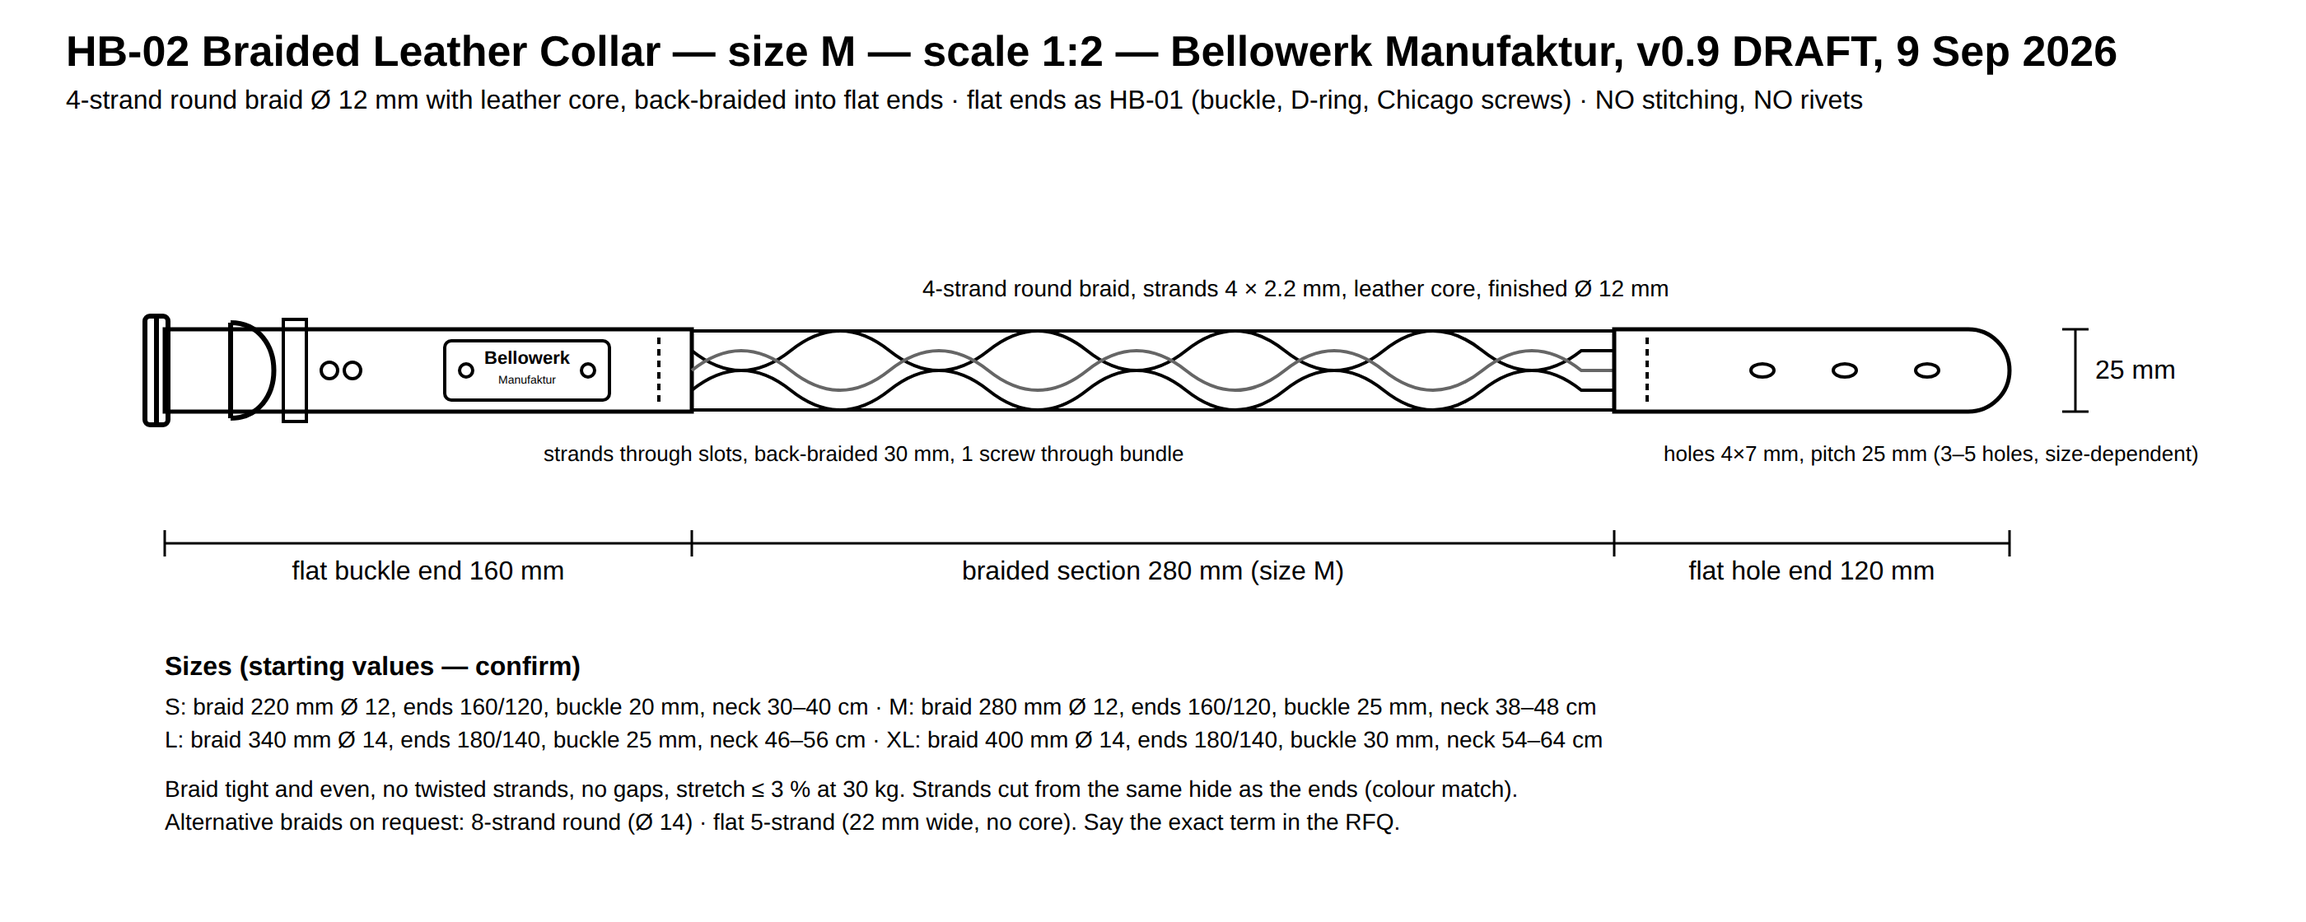
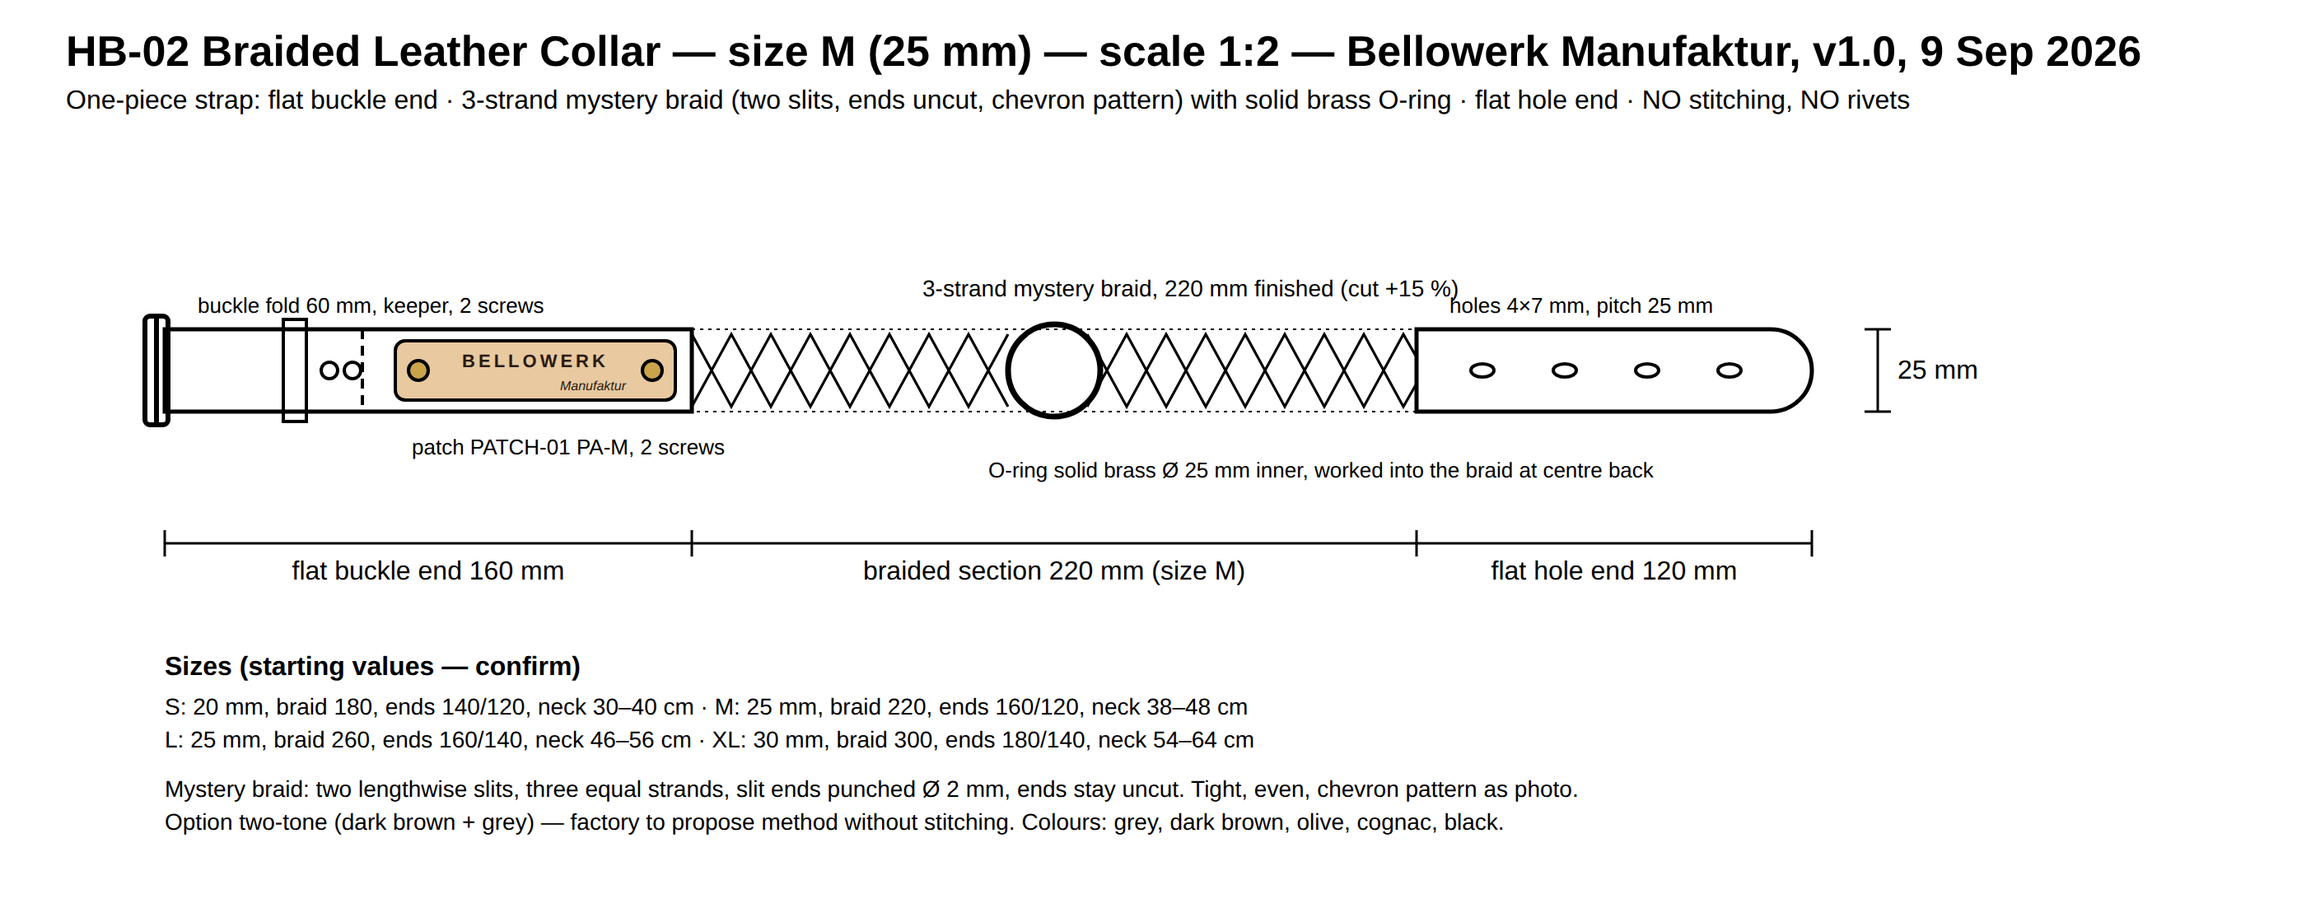
Add braided collar HB-02, name-patch option and packaging draft from new photos
Björn's second photo set shows the fully braided collar as its own model
(mystery braid with O-ring, optional two-tone), dog-name patches as a later
personalisation, black as a fifth colour and the 20 mm lead width. Adds a
packaging/labelling draft with open decisions and the new reference photos.

Claude-Session: https://claude.ai/code/session_01D467Ge9287Mm4MFWLgWCQY

diff --git a/sourcing/bellowerk/specs/HB-02-halsband-geflochten.md b/sourcing/bellowerk/specs/HB-02-halsband-geflochten.md
@@ -1,34 +1,59 @@
-# HB-02 — Collar with Braided Sections (Tech Pack v1.0 DRAFT, 9 Sep 2026)
+# HB-02 — Braided Leather Collar (Tech Pack v1.0, 9 Sep 2026)
 
-Status: draft — Björn confirms whether HB-02 is a separate model or whether the braid is only used on
-leads. Reference for the braid look: `bilder/LE-01-flechtung-ringe-farben.jpg`.
-Drawing: `zeichnungen/HB-02-geflochten.png` (braid principle).
+Reference photos: `bilder/HB-02-geflochten-am-hund.jpg` (single colour, brass O-ring),
+`bilder/HB-02-zweifarbig-am-hund.jpg` (two-tone), `bilder/HB-02-und-LE-01-gruen.jpg` (flat buckle end
+with patch, transition to braid). Drawing: `zeichnungen/HB-02-geflochten.png`.
 
 ## 1. Product
 
-Same as HB-01 (single-layer Fettleder, brass roller buckle, welded D-ring, leather patch, Chicago
-screws, no stitching, no rivets) but the **D-ring is held by a 3-strand mystery braid** instead of a
-plain screwed fold, and optionally a decorative braided section of **80–120 mm** sits on the centre of
-the strap (only if Björn wants it — ask).
+Collar whose neck section is a **3-strand mystery braid cut from one piece** of the strap (two
+lengthwise slits, ends uncut — chevron pattern as in the photos). Flat ends carry the roller buckle
+(with holes) and the leather patch, exactly as HB-01. A **solid brass O-ring** sits in the braid at the
+centre back (leash ring). No stitching, no rivets; Chicago screws only.
 
-## 2. Braid — say exactly this to the supplier
+Option two-tone: the braid is made from two colours (e.g. dark brown + grey "washed stone") — only
+possible if the strap is made from two strips joined under a screwed fold; ask the factory how they
+would do it without stitching, or quote single-colour only.
 
-**"3-strand mystery braid (trick braid) cut from one piece: two lengthwise slits in the strap, braided
-so the ends stay uncut, chevron pattern as in the photo. No separate strands, no glue, no stitching."**
+## 2. Material
 
-- Slit length 80 mm for 20–25 mm straps, 100 mm for 30–40 mm; three equal strands (width/3), slits
-  cut clean with a strap cutter, ends of slits punched round (Ø 2 mm) to stop tearing.
-- 6–8 crossings, tight and even; braid must not open under 30 kg pull; strands bevelled.
+As HB-01: vegetable-tanned oiled cowhide 3.5–4.0 mm, solid brass roller buckle, welded O-ring (inner
+Ø 25 mm, wire 5 mm, ≥ 3 kN), Chicago screws domed head Ø 8–9 mm, patch PATCH-01.
+Colours: grey, dark brown, olive, cognac, black.
 
-Other braid types (round 4-/8-strand, flat 5-strand, paracord) are **not** part of this model.
+## 3. Sizes (starting values — confirm on Björn's reference collar)
 
-## 3. Sizes, hardware, patch, packaging
+| Size | Strap width | Braided section | Flat buckle end / flat hole end | Neck range |
+|---|---|---|---|---|
+| S | 20 mm | 180 mm | 140 mm / 120 mm | 30–40 cm |
+| M | 25 mm | 220 mm | 160 mm / 120 mm | 38–48 cm |
+| L | 25 mm | 260 mm | 160 mm / 140 mm | 46–56 cm |
+| XL | 30 mm | 300 mm | 180 mm / 140 mm | 54–64 cm |
 
-As HB-01. D-ring attachment: strap through ring, fold 120 mm, mystery braid 80 mm, 1 Chicago screw.
-Buckle attachment remains a plain fold with 2 screws (the buckle tongue needs a flat fold).
+Braiding shortens the strap by about 15 %: cut the braid section 15 % longer than the finished
+braided length. Holes on the flat hole end: 5 holes, pitch 25 mm, as HB-01.
 
-## 4. Quotation questions
+## 4. Construction
 
-1. Do you make mystery braids in-house? Photo of a finished piece.
-2. Unit price EXW per size, 100 pcs; MOQ; sample cost/time; lead time; payment terms
-3. Pattern (PDF/DXF) with slit layout included — yes/no
+1. Cut strap in one piece (buckle end + braid section + hole end). Cut two lengthwise slits over the
+   braid section, three equal strands, slit ends punched Ø 2 mm.
+2. Braid the section as a mystery braid, tight and even, chevron pattern; braid stays flat.
+3. O-ring: at the centre of the braid, the ring is worked into the braid (strap passes through the
+   ring before braiding, ring sits in a braided loop) — or, if the factory prefers, a short flat tab
+   with a screwed fold. Ask which method they use; photo required.
+4. Buckle fold: plain fold 60 mm, 2 Chicago screws (buckle tongue needs the flat fold).
+5. Patch PATCH-01 on the flat buckle end, 30 mm behind the fold.
+6. Edges bevelled and burnished on strap and on every strand.
+
+## 5. Quantity and packaging
+
+Samples: 1 pc size M olive, 1 pc size M two-tone (dark brown + grey) if feasible. Then 60 pcs:
+S 10 / M 25 / L 20 / XL 5. Packing as HB-01.
+
+## 6. Quotation questions
+
+1. Do you make mystery braids in-house? Photo of a finished collar.
+2. Unit price EXW per size, 60 pcs / 150 pcs
+3. Two-tone braid possible without stitching — yes/no, how?
+4. Sample cost/time, MOQ, lead time, payment terms
+5. Pattern (PDF/DXF) with slit layout and cutting allowance included — yes/no

diff --git a/sourcing/bellowerk/specs/VERP-01-verpackung.md b/sourcing/bellowerk/specs/VERP-01-verpackung.md
@@ -1,0 +1,53 @@
+# VERP-01 — Verpackung und Kennzeichnung (Entwurf v0.1, 9. September 2026)
+
+Status: **Entwurf, Björn entscheidet.** Erst wenn die Fragen unten beantwortet sind, wird daraus ein
+englisches Tech Pack für den Lieferanten. Bis dahin steht in jeder RFQ nur: "Packing: 1 pc per kraft
+paper bag with sticker, no plastic — final packaging spec follows with the PO."
+
+## Was die Verpackung leisten muss
+
+1. Produkt schützen (Leder nicht knicken, Messing nicht verkratzen, kein Plastik auf Leder → Fett).
+2. Marke tragen: "Bellowerk / Manufaktur" sichtbar, Look wie die Produkte — Kraft, Leder, Messing,
+   keine Hochglanzbox.
+3. Pflicht-Kennzeichnung EU (GPSR seit 12/2024): Name + Postanschrift des Inverkehrbringers
+   (Bellowerk, Adresse), Produktbezeichnung, Chargen-/Modellnummer, "Made in China" (zollrechtlich
+   nötig, wenn Herkunft genannt wird; als kleine Angabe auf dem Anhänger, nicht auf dem Produkt),
+   Pflegehinweis. Kein CE nötig.
+4. Versandfähig: passt in Maxibrief/Päckchen (Halsband) bzw. Paket (Leine).
+
+## Drei Optionen
+
+| | A — Kraftpapier + Anhänger (günstig) | B — Baumwoll-/Leinenbeutel + Anhänger (Manufaktur-Look) | C — Kraftkarton mit Prägung (Geschenk) |
+|---|---|---|---|
+| Halsband | Kraftpapiertasche 120 × 250 mm, Papierband um das gerollte Halsband, Anhänger aus Kraftkarton mit Kordel | Naturbeutel 150 × 250 mm, Zugband, Stempel/Siebdruck "Bellowerk" | Faltschachtel 180 × 120 × 40 mm, Blindprägung Logo, Seidenpapier |
+| Leine | Kraftpapiertasche 200 × 300 mm, Leine gerollt, Papierband | Beutel 200 × 300 mm | Schachtel 220 × 160 × 50 mm |
+| Anhänger | Kraftkarton 50 × 90 mm, 1 Loch, Jutekordel, Druck 1-farbig: Logo, Modell, Größe, Pflege, GPSR-Adresse, Made in China | gleich | Einleger 100 × 150 mm statt Anhänger |
+| Kosten/Stück (Schätzung China) | 0,15–0,30 USD | 0,40–0,80 USD | 0,60–1,20 USD |
+| Nachteil | wirkt einfach | Beutel oft Polyester → auf Baumwolle bestehen | Volumen im Container, Karton knickt |
+
+Vorschlag: **A für den Online-Standard, C nur für Geschenk-/Weihnachtssets**, Beutel B als Zusatz gegen
+Aufpreis. Alles ohne Plastik, ohne Folie, ohne Kleber auf Leder.
+
+## Pflegekarte (Text-Entwurf, deutsch/englisch)
+
+> Fettleder lebt. Bei Nässe trocknen lassen, nicht heizen. Alle paar Monate dünn mit Lederfett
+> einreiben. Messing dunkelt nach — das ist gewollt; wer es blank mag, poliert mit einem weichen Tuch.
+> Kein Waschmittel, keine Waschmaschine.
+
+## Fragen an Björn
+
+1. Option A, B oder C — oder A + C?
+2. Anhänger: nur Bellowerk-Logo, oder auch Text ("Aus Fettleder und Messing. Eine Saison an unseren
+   Hunden getestet.")?
+3. Namenspatch-Produkte: eigener Anhänger "Für [Name]" — ja/nein?
+4. Soll der chinesische Lieferant die Verpackung mitliefern (einfacher, meist günstiger) oder
+   verpackst du in Hamburg selbst (mehr Kontrolle, deutsche Druckerei)?
+5. Anschrift für die GPSR-Angabe (Firma, Straße, PLZ, Ort, E-Mail).
+6. Größenangabe außen: Halsumfang in cm (z. B. "M · 38–48 cm") — ja?
+
+## Fragen an den Lieferanten (später, mit der PO)
+
+1. Can you supply kraft paper bags, paper band and a printed kraft hangtag (1-colour) with the order? Unit price per set.
+2. Cotton bag option: 100 % cotton (not polyester), natural colour, drawstring, 1-colour screen print — price at 100 / 300 pcs.
+3. Kraft folding box with blind-embossed logo — tooling fee and unit price at 100 / 300 pcs.
+4. Carton marking: model, size, colour, quantity; max. 10 kg per carton.

diff --git a/sourcing/bellowerk/bilder/README.md b/sourcing/bellowerk/bilder/README.md
@@ -12,16 +12,24 @@ mit Personen) — **nicht an Lieferanten schicken**.
 | `LE-01-flechtung-ringe-farben.jpg` | Vier Leinen grau/dunkelbraun/oliv/cognac: Mystery Braid (V-Muster) um O-Ring und Karabiner, Lederpatch cognac mit 2 Buchschrauben, Gravur "HERR BELLO & FRAU WUFF / Manufaktur" | LE-01, PATCH-01, Farben |
 | `HB-01-detail-patch.jpg` | Graues Halsband mit Lederpatch, 2 gewölbte Messing-Buchschrauben, Rollschnalle Messing, Lochreihe | HB-01, PATCH-01 Position |
 | `HB-01-farben-patch.jpg` | Vier Halsbänder gestapelt (dunkelbraun, oliv, cognac, grau) mit Patch | HB-01 Farben, Patch-Layout |
-| `marke/instagram-look-1.jpg`, `-2.jpg`, `instagram-logo.jpg` | Instagram-Grid und Logo "Herr Bello & Frau Wuff Manufaktur" (Wachscotton-Mäntel, Huntsman-Stil, rotes Halsband "Santa's Dog" mit graviertem Patch) | Markenlook, nicht für Lieferanten |
+| `HB-01-detail-dring-namenspatch.jpg` | Cognac-Halsband: D-Ring mit Buchschraube, Messing-Münzanhänger, Namenspatch "TILDA" | HB-01, PATCH-01 N |
+| `HB-02-geflochten-am-hund.jpg` | Halsband komplett im Mystery Braid, O-Ring, Karabiner eingehakt | HB-02 |
+| `HB-02-zweifarbig-am-hund.jpg` | Zweifarbiges Flechthalsband (dunkelbraun + grau "washed stone"), O-Ring, flaches Ende mit Schraube | HB-02 Option zweifarbig |
+| `HB-02-und-LE-01-gruen.jpg` | Grünes Flechthalsband mit Schnalle + Patch, daneben Leine mit Flechtung am Ring | HB-02 Übergang Flechtung/flach |
+| `LE-01-flechtung-karabiner-gruen.jpg` | Zwei grüne Leinen: Flechtung + Buchschraube + Bolzenkarabiner, Nahaufnahme | LE-01 Karabiner-Anbindung |
+| `LE-01-ringe-flechtung-pink.jpg`, `LE-01-farben-pink-tuerkis.jpg` | Ringe im Geflecht, Patch, Sonderfarben Pink/Türkis/Gelb; Bildtext bestätigt 2 cm Leinenbreite | LE-01 Ringe, Farben |
+| `PATCH-01-und-flechtung-detail.jpg`, `PATCH-01-namensgravur-detail.jpg` | Patch-Gravur nah: Versalien gesperrt + Schreibschrift; Namensgravur "ENZ…" in Serifen | PATCH-01 Schrift |
+| `PATCH-01-namenspatch-august.jpg`, `PATCH-01-namenspatch-detail.jpg` | Namenspatch "AUGUST" neben Markenpatch, Bolzenkarabiner | PATCH-01 Variante N |
+| `ZUB-schluesselanhaenger.jpg` | Schlüsselanhänger mit Patch und Messingring | späteres Zubehör |
+| `marke/instagram-look-1…5.jpg`, `instagram-logo.jpg`, `instagram-logo-tasche.jpg` | Instagram-Grid, Logo "Herr Bello & Frau Wuff Manufaktur" (gesperrte Sans-Versalien + Schreibschrift), Huntsman-Look, schwarzes Set, Tasche | Markenlook, nicht für Lieferanten |
 
 ## Noch fehlend (bitte nachliefern)
 
 | Datei | Was drauf sein muss |
 |---|---|
-| `HB-01-gesamt.jpg` | Halsband komplett flach, Narbenseite oben, Schnalle links, Lineal daneben |
-| `HB-01-detail-schnalle.jpg` | Schnallenfalte mit D-Ring und Schlaufe, nah |
-| `LE-01-gesamt.jpg` | Leine ausgelegt, alle drei Ringe sichtbar, Maßband entlang |
-| `LE-01-detail-ring.jpg` | Ring im Geflecht, nah, Lineal daneben (Flechtlänge messen) |
+| `HB-01-gesamt.jpg` | Halsband komplett flach, Narbenseite oben, Schnalle links, **Lineal** daneben |
+| `LE-01-gesamt.jpg` | Leine ausgelegt, alle drei Ringe sichtbar, **Maßband** entlang |
+| `LE-01-detail-ring-lineal.jpg` | Ring im Geflecht mit Lineal (Flechtlänge und Umschlag messen) |
 | `HS-01-gesamt.jpg` | Handschlaufe komplett |
 | `PATCH-01-artwork.svg` | Vektor-Logo "BELLOWERK / Manufaktur" (Schrift in Pfade) |
 | `messing-beschlaege.jpg` | Schnalle, D-Ring, O-Ring, Karabiner, Buchschraube nebeneinander, Lineal |

diff --git a/sourcing/bellowerk/specs/PATCH-01-markenpatch.md b/sourcing/bellowerk/specs/PATCH-01-markenpatch.md
@@ -17,7 +17,7 @@ in a handwritten script, right-aligned under line 1. No stitching, no glue as th
 |---|---|
 | Leather | Vegetable-tanned cowhide, full grain, **2.0–2.5 mm**, colour cognac / medium brown (same on all strap colours: grey, dark brown, olive, cognac). Firm, smooth grain for clean engraving. |
 | Sizes | **PA-M 85 × 18 mm** for 25–40 mm straps (collar M/L/XL, lead 25 mm) · **PA-S 65 × 14 mm** for 20 mm straps (lead LE-01, hand loop HS-01, collar S). Corner radius 3 mm. |
-| Lettering | Line 1 "BELLOWERK": spaced capitals (tracking +15 %), cap height 4.5 mm (PA-M) / 3.5 mm (PA-S), font Lora Bold or similar serif capitals. Line 2 "Manufaktur": script font (e.g. Allura/Great Vibes style), x-height 2.5 mm / 2.0 mm, placed under the right half of line 1. Engraving depth 0.2–0.3 mm, dark burn, no paint, no foil. |
+| Lettering | Line 1 "BELLOWERK": spaced geometric sans-serif capitals as in the existing logo (Futura/Josefin Sans style, tracking +20 %), cap height 4.5 mm (PA-M) / 3.5 mm (PA-S). Line 2 "Manufaktur": brush script as in the logo, x-height 2.5 mm / 2.0 mm, placed under the right half of line 1. Engraving depth 0.2–0.3 mm, dark burn, no paint, no foil. Björn supplies the vector logo; the drawing is a placeholder. |
 | Holes | 2 × Ø 4.5 mm, hole centres 7 mm from each end → spacing **71 mm** (PA-M) / **51 mm** (PA-S) |
 | Screws | Chicago screws solid brass, head Ø 8–9 mm domed (as on photos), post 8 mm (patch + strap), thread-locked |
 | Edges | Cut clean, lightly bevelled, burnished, no edge paint |
@@ -25,6 +25,15 @@ in a handwritten script, right-aligned under line 1. No stitching, no glue as th
 
 Artwork: vector (AI/PDF/SVG), text converted to outlines, 1:1, black = engraved. Min line width 0.3 mm,
 min gap 0.5 mm. Supplier to send a digital proof and one engraved sample before production.
+
+## Variant N (later — personalisation): dog-name patch
+
+Same patch, but engraved with the **dog's name in spaced serif capitals** (as "AUGUST", "TILDA",
+"ENZO" in `bilder/PATCH-01-namenspatch-august.jpg`, `PATCH-01-namensgravur-detail.jpg`): one line,
+cap height 6 mm (PA-M) / 5 mm (PA-S), tracking +20 %, max. 10 characters (longer names → patch
+PA-L 110 × 18 mm). Björn's decision: **first order = Bellowerk patch only, no names.** Ask the factory
+now whether they can engrave single pieces on demand later and at what price/lead time per piece
+(question 5 below), so the option is open.
 
 ## Variant B (alternative for later): solid brass nameplate
 
@@ -48,3 +57,4 @@ engrave, a patch supplier delivers to the factory.
 2. Unit price 500 / 1000 pcs, each size, incl. brass screws
 3. Sample cost/time, lead time
 4. Leather colour match to our photos — send swatches of cognac / medium brown
+5. Later option: engraving of individual dog names (serif capitals) on single patches — possible? Price and lead time per piece?

diff --git a/sourcing/bellowerk/markenbrief.md b/sourcing/bellowerk/markenbrief.md
@@ -22,7 +22,8 @@ Diese Datei ist die Wahrheit für alle Lieferanten-Kontakte. Änderungen hier wi
 
 - **Fettleder**: Rindleder, pflanzlich gegerbt (vegetable-tanned), gefettet/gewachst (oiled / pull-up),
   Vollnarbe (full grain), feste Narbenseite, durchgefärbt. Stärke 3,5–4,0 mm für Halsband und Leine,
-  2,0–2,5 mm für den Patch. Farben laut Fotos: **Grau, Dunkelbraun, Oliv, Cognac**.
+  2,0–2,5 mm für den Patch. Farben laut Fotos: **Grau, Dunkelbraun, Oliv, Cognac, Schwarz**.
+  Leinenbreite 20 mm (bestätigt per Instagram-Text: "Die Lederbreite der Leine beträgt 2 cm").
 - **Messing massiv** (solid brass, gegossen HPb59-1 / CW617N oder geschmiedet): Rollschnalle, D-Ring
   geschweißt, O-Ring geschweißt, Wirbel-Bolzenkarabiner (swivel eye bolt snap, poliert wie auf den
   Fotos), Riemenschlaufe. Unlackiert (Patina erwünscht).
@@ -50,10 +51,17 @@ kein Einstieg über Windhunde
 |---|---|---|
 | HB-01 | Halsband Fettleder, einlagig, ohne Naht, S/M/L/XL, 20–40 mm, Lederpatch | `specs/HB-01-halsband.md` |
 | LE-01 | Führleine 3,00 m, dreifach verstellbar, sechs Führlängen, Ringe bei 45/140/245 cm, Karabiner und Ringe im Mystery Braid | `specs/LE-01-fuehrleine.md` |
-| HB-02 | Halsband mit Mystery-Braid-Anbindung des D-Rings (Entwurf, Björn entscheidet) | `specs/HB-02-halsband-geflochten.md` |
+| HB-02 | Halsband geflochten: Halsteil im Mystery Braid (ein- oder zweifarbig), O-Ring, flache Enden mit Schnalle und Patch | `specs/HB-02-halsband-geflochten.md` |
 | LE-02 | Rundgeflochtene Leine — zurückgestellt | `specs/LE-02-fuehrleine-geflochten.md` |
 | HS-01 | Handschlaufe, Umfang 50 cm | `specs/HS-01-handschlaufe.md` |
-| PATCH-01 | Lederpatch lasergraviert "BELLOWERK / Manufaktur", 2 Buchschrauben | `specs/PATCH-01-markenpatch.md` |
+| PATCH-01 | Lederpatch lasergraviert "BELLOWERK / Manufaktur", 2 Buchschrauben; später Variante N mit Hundenamen | `specs/PATCH-01-markenpatch.md` |
+| VERP-01 | Verpackung + Kennzeichnung (Entwurf, Björn entscheidet) | `specs/VERP-01-verpackung.md` |
+
+Grundsatz laut Björn: **schlichte Produkte, bei denen die Messingringe und -schnallen zur Geltung
+kommen**. Erste Bestellung: Patch nur mit "Bellowerk", keine Personalisierung. HB-01 und LE-01 sind
+die Kernmodelle, HB-02 die geflochtene Variante. Spätere Kandidaten (nicht jetzt anfragen):
+Führleine mit fester Handschlaufe, Schlüsselanhänger mit Patch, Messing-Münzanhänger am D-Ring
+(auf Fotos zu sehen), Sonderfarben Pink/Türkis/Mint/Gelb/Bordeaux.
 
 Jedes Produkt wird **komplett** geliefert: fertig montiert, mit Patch, mit Pflegehinweis, verpackt.
 

diff --git a/sourcing/bellowerk/specs/LE-01-fuehrleine.md b/sourcing/bellowerk/specs/LE-01-fuehrleine.md
@@ -15,7 +15,7 @@ piece) plus one Chicago screw** — this is the signature look, see photos. Leat
 
 | Part | Specification |
 |---|---|
-| Leather | Cowhide, vegetable-tanned, full grain, oiled/waxed pull-up ("Fettleder"), dyed through, **3.5–4.0 mm**, width **20 mm** (option 25 mm). One continuous strap, no joints. Colours: grey, dark brown, olive, cognac (see photo). |
+| Leather | Cowhide, vegetable-tanned, full grain, oiled/waxed pull-up ("Fettleder"), dyed through, **3.5–4.0 mm**, width **20 mm** (option 25 mm). One continuous strap, no joints. Width 20 mm confirmed by Björn. Colours: grey, dark brown, olive, cognac, black (see photos `bilder/LE-01-*.jpg`). |
 | Snap hooks (2) | Swivel trigger snap ("swivel eye bolt snap"), **solid brass**, polished, eye for 20 mm strap, min. breaking load **2.0 kN**, strong spring. |
 | O-rings (3) | Welded, ground smooth, solid brass, inner Ø 25 mm, wire Ø 5 mm, min. 3 kN. |
 | Screws | Chicago screws solid brass, domed head Ø 8–9 mm, post 8 mm, thread-locked. 1 per attachment. |

diff --git a/sourcing/bellowerk/zeichnungen/README.md b/sourcing/bellowerk/zeichnungen/README.md
@@ -10,7 +10,7 @@ WeChat, E-Mail). Jede Anfrage an einen Lieferanten bekommt die passende PNG plus
 | `LE-01-fuehrleine.svg/.png` | Führleine 3,00 m, Ringe 45/140/245 cm, Mystery-Braid-Anbindung, sechs Führlängen | v1.1 |
 | `PATCH-01-lederpatch.svg/.png` | Lederpatch graviert PA-M 85×18 und PA-S 65×14, Bohrbild, Schnitt | v1.1 |
 | `HS-01-handschlaufe.svg/.png` | Handschlaufe 50 cm | v1.0 |
-| `HB-02-geflochten.svg/.png` | Rundflechtung — nur noch Prinzipskizze, Modell zurückgestellt (siehe Spec) | v0.9 |
+| `HB-02-geflochten.svg/.png` | Flechthalsband: flache Enden, Mystery Braid mit O-Ring, Patch | v1.0 |
 
 Startwerte (Größentabellen, Lochabstände) sind aus der Kernserie abgeleitet und von Björn am
 Referenzstück zu bestätigen. Änderungen: SVG editieren, dann PNG neu rendern:

diff --git a/sourcing/bellowerk/specs/HB-01-halsband.md b/sourcing/bellowerk/specs/HB-01-halsband.md
@@ -5,8 +5,9 @@ Attachments: `zeichnungen/HB-01-halsband.png`, photos `bilder/HB-01-detail-patch
 
 ## 1. Product
 
-Single-layer leather collar. No stitching, no rivets. All joints fixed with solid brass Chicago screws.
-Roller buckle, welded D-ring, leather keeper. Brand nameplate PATCH-01 near the buckle.
+Plain single-layer leather collar — the brass buckle and D-ring are the visual feature, nothing else.
+No stitching, no rivets. All joints fixed with solid brass Chicago screws. Roller buckle, welded
+D-ring, leather keeper. Leather patch PATCH-01 near the buckle (see `bilder/HB-01-detail-dring-namenspatch.jpg`).
 
 ## 2. Material
 
